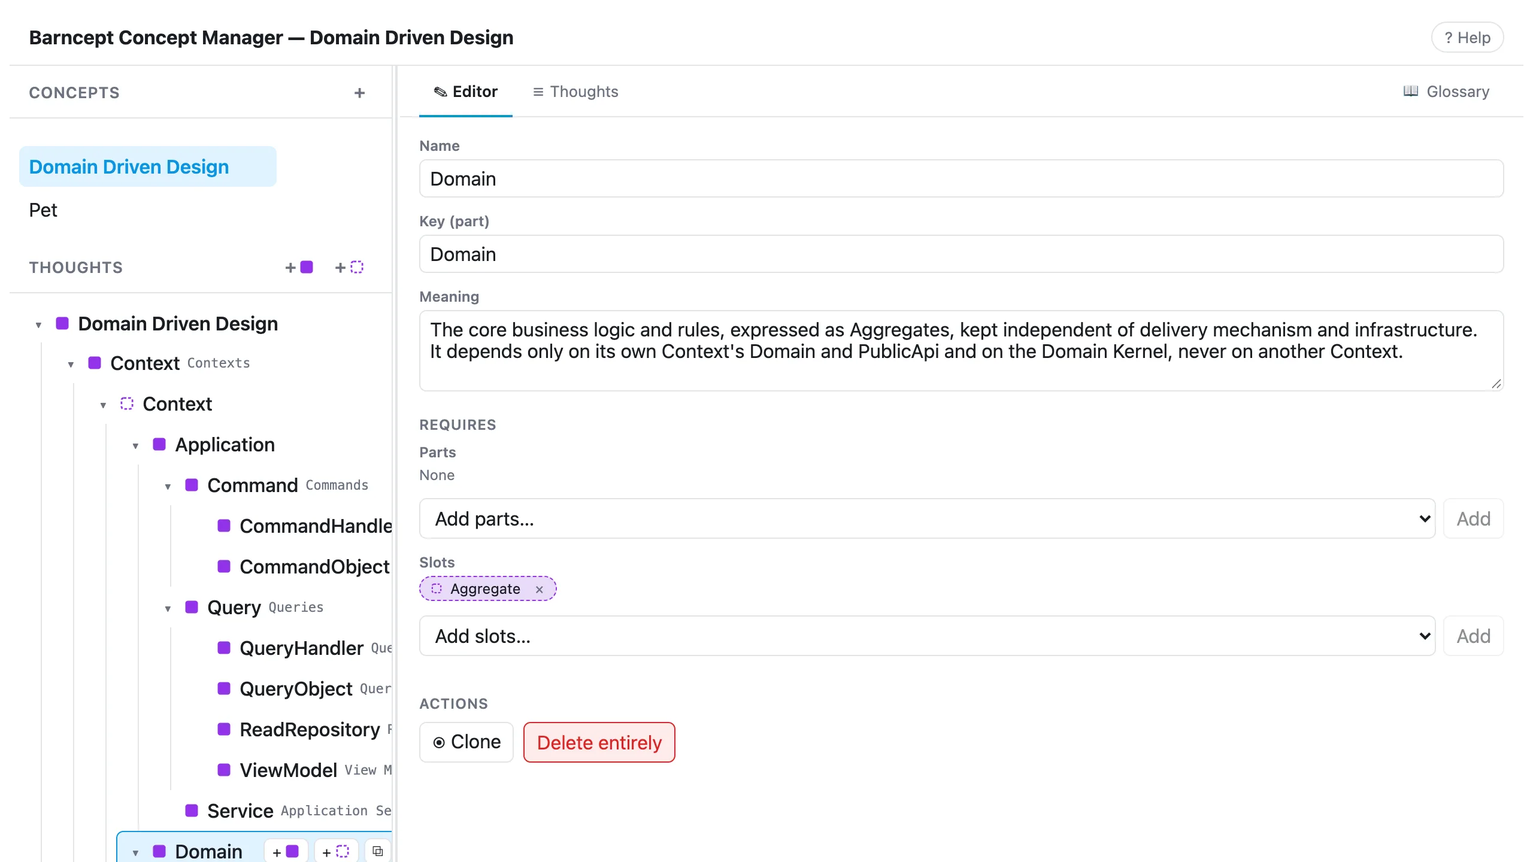
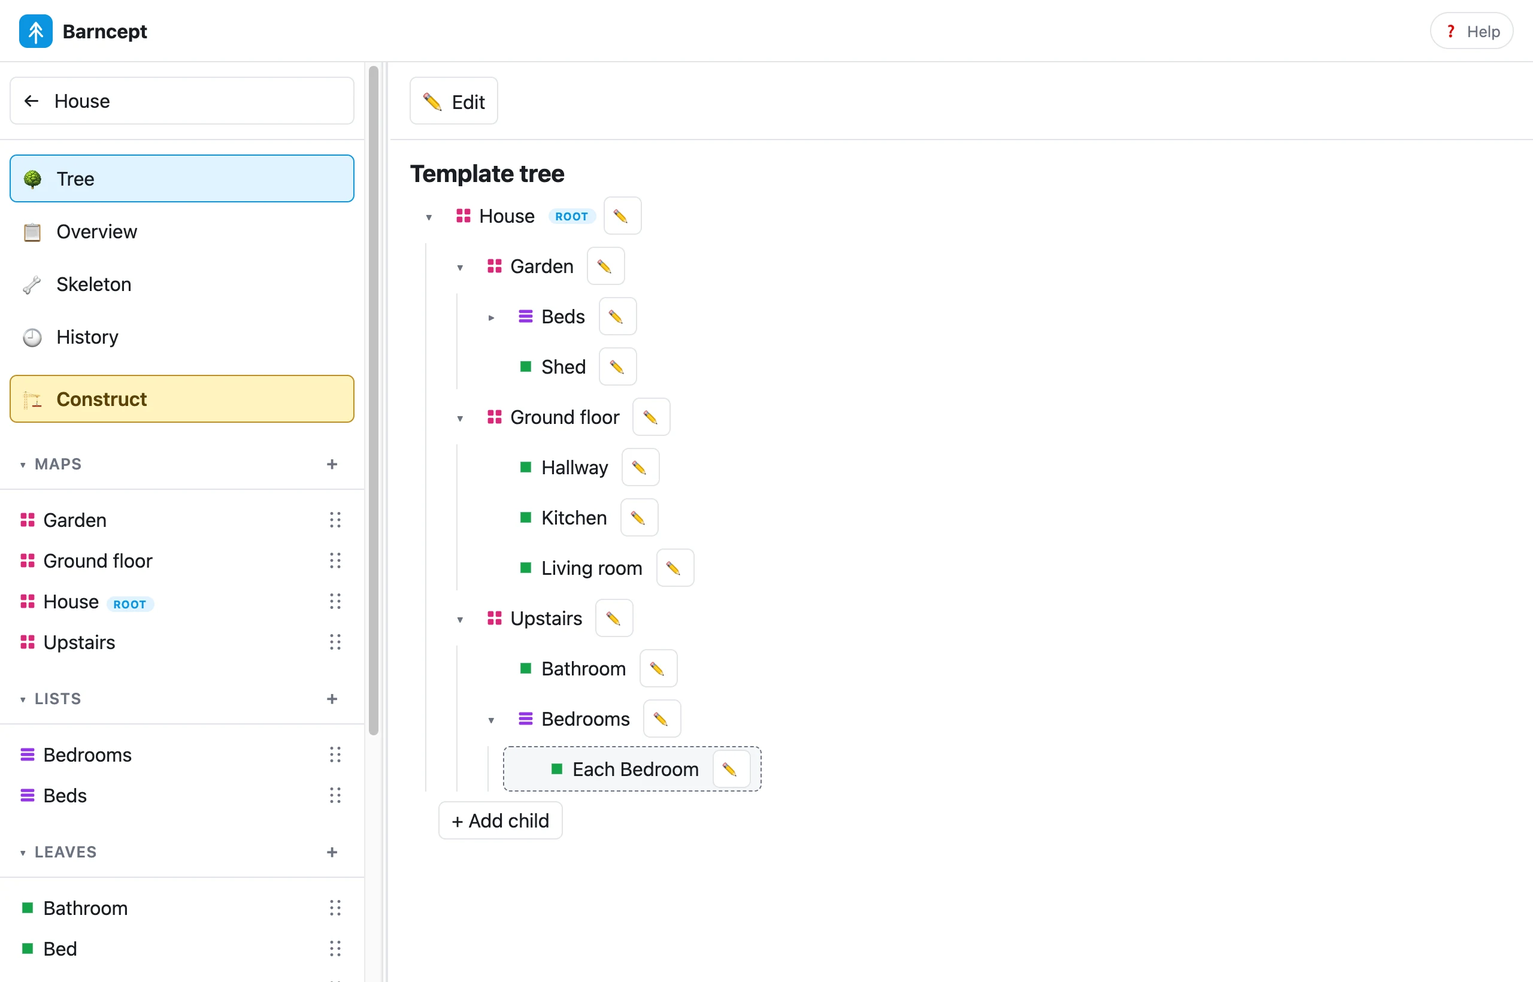
Refresh Barncept website for Templates, Constructions and History

diff --git a/barncept.html b/barncept.html
@@ -4,7 +4,7 @@
   <meta charset="utf-8">
   <meta name="viewport" content="width=device-width, initial-scale=1">
   <title>Barncept · Barn</title>
-  <meta name="description" content="Barncept keeps a tree of items in line with the types of thing it may hold, each type a leaf, a list or a map with a plain meaning, and refuses any change that would break them. How you understand something outlives how it is built.">
+  <meta name="description" content="Design reusable Templates with leaves, lists and maps. Create independent Constructions from saved revisions, add real members, and follow every saved change in History.">
   <link rel="icon" href="assets/barncept.svg" type="image/svg+xml">
   <link rel="stylesheet" href="assets/site.css">
 </head>
@@ -30,7 +30,7 @@
       <div class="wrap">
         <span class="eyebrow"><svg class="mark" viewBox="0 0 24 24" fill="currentColor" aria-hidden="true"><path transform="translate(-4 -4)" d="M16 8V27.5M11 14.5L16 8L21 14.5M10 21L16 14.5L22 21" fill="none" stroke="currentColor" stroke-width="2" stroke-linecap="round" stroke-linejoin="round"/></svg>Barncept · Reasoning</span>
         <h1>Your understanding <span class="accent">outlives your code</span>.</h1>
-        <p class="lede">Code is rewritten, frameworks come and go, folders get reshuffled. What lasts is how you understand the domain. With Barncept you <strong>name the types of thing in one subject, and Barncept builds the tree of items that follows them</strong>. Every type has a plain meaning, every change is checked so the tree never breaks its types, and the whole can be realised in any way you like.</p>
+        <p class="lede">Code is rewritten, frameworks come and go, folders get reshuffled. What lasts is how you understand the domain. With Barncept you <strong>design a reusable Template, then create Constructions that follow it</strong>. Describe what each building block means, arrange leaves, lists and maps, and add real members to each Construction. Every saved change has a history, and each Construction keeps the exact Template revision it started from.</p>
         <div class="actions">
           <a class="btn" href="#get-started">Get started</a>
           <a class="btn ghost" href="#deeper">Go deeper</a>
@@ -38,8 +38,8 @@
       </div>
       <div class="wrap wide hero-shot">
         <figure class="shot">
-          <div class="shot-bar" aria-hidden="true"><i></i><i></i><i></i><span>Barncept · Concept Manager</span></div>
-          <img src="assets/screens/cept-items.webp" width="1280" height="720" alt="The Barncept Concept Manager editing the House concept: its tree of items on the left, and the Bedrooms list selected, with its two members, Front bedroom and Back bedroom, each with buttons to move or remove it.">
+          <div class="shot-bar" aria-hidden="true"><i></i><i></i><i></i><span>Barncept · Templates and Constructions</span></div>
+          <img src="assets/screens/cept-editor.webp" width="1280" height="820" alt="The current Barncept Template workspace showing the expanded House tree, its reusable maps, lists and leaves in one sidebar, and the Construct action.">
         </figure>
       </div>
     </section>
@@ -50,8 +50,8 @@
           <div>
             <span class="kicker">Meaning first</span>
             <h2>Types that explain themselves.</h2>
-            <p>A concept names the <strong>types</strong> of thing in one subject, and every type has a name and <strong>a meaning written in plain words</strong>. A type is a <strong>leaf</strong>, which holds nothing, a <strong>list</strong> of one type, or a <strong>map</strong> of several. A house is a map of a ground floor, an upstairs and a garden; its bedrooms are a list, and each bedroom is a leaf.</p>
-            <p>Months later, anyone can open the tree and understand not just what exists, but what each thing is for. Each concept’s <strong>Glossary</strong> puts every type and its meaning on one page, so a newcomer, or an AI agent, can learn the vocabulary in one read.</p>
+            <p>A Template names the <strong>types</strong> of thing in one subject. Each building block has an identifier, a name and <strong>a meaning written in plain words</strong>. A type is a <strong>leaf</strong>, which holds nothing, a <strong>list</strong> of one type, or a <strong>map</strong> of several. A house is a map of a ground floor, an upstairs and a garden; its bedrooms are a list, and each bedroom is a leaf.</p>
+            <p>Months later, anyone can open the tree and understand not just what exists, but what each thing is for. Each Template’s <strong>Glossary</strong> puts every type and its meaning on one page, so a newcomer, or an AI agent, can learn the vocabulary in one read.</p>
           </div>
           <figure class="panel" style="margin: 0">
             <svg viewBox="0 0 490 300" role="img" aria-labelledby="graph-title" style="display: block; width: 100%; height: auto">
@@ -95,7 +95,7 @@
           <div>
             <span class="kicker">Always valid</span>
             <h2>A change that would break it is refused.</h2>
-            <p>Barncept builds the tree from the types: a map’s items are made for you, one for each type it holds, and you add the <strong>members</strong> of a list, each with a name you give it. Keeping the tree in line with its types is Barncept’s core job. It is <strong>never left half-broken</strong>: a type nobody has described, a map that holds itself forever, two members of one list with the same name, or a member added where there is no list is refused, with a message that says why. That makes it safer to drive than the file underneath, whether a person, a program or an AI agent is doing the driving.</p>
+            <p>Create a Construction from a saved Template. Its required map children are made for you, and its lists start empty. Use <strong>+ Add</strong> to give a list real <strong>members</strong>, each with its own name. Keeping the tree in line with its types is Barncept’s core job. It is <strong>never left half-broken</strong>: a type nobody has described, a map that holds itself forever, two members of one list with the same name, or a member added where there is no list is refused, with a message that says why. That makes it safer to drive than the file underneath, whether a person, a program or an AI agent is doing the driving.</p>
             <p>A file that was broken outside Barncept fails loudly when it is read, and says what is wrong and where.</p>
           </div>
           <div class="panel" aria-label="Changes Barncept checks before it makes them">
@@ -126,20 +126,60 @@
         <div class="feature stacked">
           <div>
             <div class="copy-head">
-              <span class="kicker">Change your mind</span>
-              <h2>Change the types. See what goes first.</h2>
+              <span class="kicker">Reusable rules</span>
+              <h2>Design once. Construct separately.</h2>
             </div>
             <div>
-            <p>Understanding grows, and the types change with it. Change what a map or a list holds, or turn a list into a leaf, and Barncept <strong>fits the tree to the new types</strong>: an item still of the type expected where it sits stays, with its name, a map entry the new types call for is made, and anything whose type has gone is removed with everything in it.</p>
-            <p>Barncept decides nothing for you. <strong>Before anything is removed, the editor lists it and asks</strong>, and nothing is saved until you save the concept.</p>
+              <p>A Template’s tree shows its fixed children and the structure each list repeats. The sidebar groups its reusable <strong>Maps, Lists and Leaves</strong>. Select a building block to see its meaning and uses, then choose <strong>Edit</strong>. Drag a building block’s grip onto a compatible target, or use the keyboard controls to add or replace a connection.</p>
+              <p><strong>Save and Cancel belong to the object being edited.</strong> Save records the whole session as one revision; Cancel restores the saved version. Shared changes and losses ask for confirmation, and leaving an unfinished edit offers Save, Discard or Stay.</p>
             </div>
           </div>
           <figure>
             <div class="shot">
-              <div class="shot-bar" aria-hidden="true"><i></i><i></i><i></i><span>Barncept · Concept Manager</span></div>
-              <img src="assets/screens/cept-change-types.webp" width="1400" height="900" alt="The Barncept Concept Manager after the House concept’s Garden type was changed to a leaf. A dialog, The tree would lose items, lists House / Garden / Shed and House / Garden / Beds, which would be removed with everything in them, and offers Remove them and apply, or Cancel.">
+              <div class="shot-bar" aria-hidden="true"><i></i><i></i><i></i><span>Barncept · Editing a building block</span></div>
+              <img src="assets/screens/cept-template-edit.webp" width="1280" height="820" loading="lazy" alt="Barncept editing the Kitchen leaf in the House Template, with its name, meaning, kind and tags, and Save and Cancel beside the editing heading.">
             </div>
-            <figcaption>A type change that would remove items asks first.</figcaption>
+            <figcaption>One building block, one editing session, one saved revision.</figcaption>
+          </figure>
+        </div>
+
+        <div class="feature stacked">
+          <div>
+            <div class="copy-head">
+              <span class="kicker">Real members</span>
+              <h2>One Template. Independent Constructions.</h2>
+            </div>
+            <div>
+              <p>Choose <strong>Construct</strong>, give it a name, and Barncept opens the new Construction’s tree. Add, rename or remove list members within an explicit Save/Cancel session. Required map children and the captured building-block rules stay protected.</p>
+              <p>Willow Cottage can have a Front bedroom and a Back bedroom while another house has different rooms. Each Construction <strong>keeps its exact saved source revision</strong>: later Template changes leave it intact. Overview links back to that source, even if the live Template is later renamed or deleted.</p>
+            </div>
+          </div>
+          <figure>
+            <div class="shot">
+              <div class="shot-bar" aria-hidden="true"><i></i><i></i><i></i><span>Barncept · A Construction</span></div>
+              <img src="assets/screens/cept-items.webp" width="1280" height="820" loading="lazy" alt="The Willow Cottage Construction in Barncept, showing required House structure, Front bedroom and Back bedroom as real list members, and Add controls on eligible lists.">
+            </div>
+            <figcaption>A Construction holds real members; its Template supplies the rules.</figcaption>
+          </figure>
+        </div>
+
+        <div class="feature stacked">
+          <div>
+            <div class="copy-head">
+              <span class="kicker">A record of change</span>
+              <h2>History belongs to each object.</h2>
+            </div>
+            <div>
+              <p>Templates and Constructions each have their own <strong>History</strong>, newest revision first. See when a change was recorded and what changed, expand a combined save, or open a revision’s read-only snapshot.</p>
+              <p>Construction creation records its first revision immediately. Later saves add revisions only when something changed. Historical snapshots and captured sources remain read-only; restoring or upgrading them is outside the current editor.</p>
+            </div>
+          </div>
+          <figure>
+            <div class="shot">
+              <div class="shot-bar" aria-hidden="true"><i></i><i></i><i></i><span>Barncept · Construction history</span></div>
+              <img src="assets/screens/cept-history.webp" width="1280" height="820" loading="lazy" alt="Willow Cottage’s History in Barncept, listing its creation and the saved additions of Front bedroom and Back bedroom, with revision numbers that open immutable snapshots.">
+            </div>
+            <figcaption>Follow saved changes without altering the current tree.</figcaption>
           </figure>
         </div>
 
@@ -148,10 +188,10 @@
             <span class="kicker">Realise it any way</span>
             <h2>One model. Any shape.</h2>
             <p>Barncept never decides what a tree becomes. A folder structure, a diagram and a set of documents are each <strong>one possible realisation</strong>, never the model itself. Turn the same tree into real folders, an architecture to check code against, or whatever you need next.</p>
-            <p>Four come built in, each for whoever reads it. View and download any of them in the browser, or export them from the command line.</p>
-            <p>Every <a href="barnark.html">Barnark</a> architecture template is written as a Barncept concept, and can be opened and edited in exactly the same way.</p>
+            <p>Four Template projections come built in. Open <strong>View and export</strong> under a Template’s Overview to preview or download its saved item tree, or export it from the command line. Construction exports are not available yet.</p>
+            <p><a href="barnark.html">Barnark</a> architecture templates use Barncept concepts too. Barnark manages its own templates and folder rules; the new Construction workflow is not integrated with Barnark yet.</p>
           </div>
-          <div class="panel" aria-label="The four built-in realisations of a concept">
+          <div class="panel" aria-label="The four built-in Template projections">
             <ul class="examples" style="margin-top: 0">
               <li><strong>Document</strong><span class="state">for people: a heading per item, its meaning beneath</span></li>
               <li><strong>Folders</strong><span class="state">for developers and tools, a README in each</span></li>
@@ -179,7 +219,7 @@
                 <li><strong>List</strong>: a type of exactly one type, such as <code>Bedrooms</code>, a list of <code>Bedroom</code>. Its items are its members, any number of them, each with a name you give it.</li>
                 <li><strong>Map</strong>: a type of a set of types, each at most once, such as <code>House</code>, a map of <code>Ground floor</code>, <code>Upstairs</code> and <code>Garden</code>.</li>
               </ul>
-              <p>A concept names its <strong>root</strong> type, and types refer to each other only by name, so one type can be used in many places. Every item follows one type and has an id that Barncept generates. A concept written as types only is given its <strong>skeleton</strong> when it is read: the root, and every map entry below it, down to empty lists and leaves. Add two bedrooms and the House reads:</p>
+              <p>A Template names its <strong>root</strong> type, and types refer to each other only by name, so one type can be used in many places. Every item follows one type and has an id that Barncept generates. <strong>Skeleton</strong> is a read-only preview of the starting tree: the root and every required map child, down to empty lists and leaves. A new Construction starts there. Add two bedrooms to a House Construction and its tree reads:</p>
 <pre><code>House
 |
 +--Ground floor
@@ -199,6 +239,22 @@
    +--Shed
    +--Beds</code></pre>
               <p>The editor marks a map, a list and a leaf each with its own icon, and its Help page explains every word it uses.</p>
+            </div>
+          </details>
+          <details>
+            <summary><span>Templates, Constructions and History from the command line<small>The same saved data as the browser</small></span></summary>
+            <div class="body">
+              <p>Read Templates and their building blocks, create Constructions, manage real list members and inspect revision history without a running GUI. Template and building-block editing remains in the browser.</p>
+<pre><code><span class="p">$ </span>vendor/bin/barncept template:list
+<span class="p">$ </span>vendor/bin/barncept template:show House --view=skeleton
+<span class="p">$ </span>vendor/bin/barncept type:show House Bedroom
+<span class="p">$ </span>vendor/bin/barncept construction:create House --name="Willow Cottage"
+<span class="p">$ </span>vendor/bin/barncept construction:list
+<span class="p">$ </span>vendor/bin/barncept construction:show CONSTRUCTION_ID
+<span class="p">$ </span>vendor/bin/barncept member:add CONSTRUCTION_ID --list=LIST_ITEM_ID --name="Front bedroom"
+<span class="p">$ </span>vendor/bin/barncept construction:history CONSTRUCTION_ID
+<span class="p">$ </span>vendor/bin/barncept construction:show CONSTRUCTION_ID --view=source</code></pre>
+              <p>Replace the uppercase placeholders with the IDs printed by the list and show commands. Read commands support <code>--json</code>; member changes appear in the GUI and share its history. Member removal asks for confirmation.</p>
             </div>
           </details>
           <details>
@@ -274,8 +330,8 @@ new ProjectionWriterFactory()->create()->write($document, __DIR__ . '/house.md')
     <section class="section" id="get-started">
       <div class="wrap cta">
         <span class="kicker">Get started</span>
-        <h2>Open your concepts in the browser.</h2>
-        <p>Barncept needs PHP 8.5, Composer and the <code>ds</code> extension. If the project has no barn, run <code>init</code> once to create <code>.barn/</code>, then open the editor. Barncept keeps its concepts in <code>.barn/barncept/concepts/</code>.</p>
+        <h2>Design a Template. Make it real.</h2>
+        <p>Barncept needs PHP 8.5, Composer and the <code>ds</code> extension. If the project has no barn, run <code>init</code> once to create <code>.barn/</code>, then open the editor. Existing Template files stay in <code>.barn/barncept/concepts/</code> and appear in the catalogue without importing them. Constructions and revision history are managed alongside them by Barncept.</p>
 <pre style="max-width: 560px; margin: 0 auto 8px; text-align: left"><code><span class="p">$ </span>vendor/bin/barncept init
 <span class="p">$ </span>vendor/bin/barncept gui</code></pre>
         <div class="deeper" style="max-width: 760px; margin: 28px auto 0; text-align: left">

diff --git a/barnark.html b/barnark.html
@@ -283,7 +283,7 @@
       <div class="wrap">
         <div class="grid two">
           <a class="card product" data-brand="spec" href="barnspec.html"><span class="role">Understand the need</span><h3><svg class="mark" viewBox="0 0 24 24" fill="currentColor" aria-hidden="true"><g transform="translate(-4 -4)"><g transform="translate(16 16) scale(1.45) translate(-16 -16.5)" fill="none" stroke="currentColor" stroke-width="1.4" stroke-linecap="round" stroke-linejoin="round"><circle cx="12.2" cy="16.6" r="2.9"/><circle cx="19.8" cy="16.6" r="2.9"/><path d="M15 16c.6-.7 1.4-.7 2 0"/><path d="M10.15 14.55C9.65 13.95 9.2 13.55 8.7 13.55M21.85 14.55C22.35 13.95 22.8 13.55 23.3 13.55"/></g></g></svg>Barnspec</h3><p>Know what the code is for, and prove that it does it.</p><span class="more">Explore Barnspec</span></a>
-          <a class="card product" data-brand="cept" href="barncept.html"><span class="role">Organise the concepts</span><h3><svg class="mark" viewBox="0 0 24 24" fill="currentColor" aria-hidden="true"><path transform="translate(-4 -4)" d="M16 8V27.5M11 14.5L16 8L21 14.5M10 21L16 14.5L22 21" fill="none" stroke="currentColor" stroke-width="2" stroke-linecap="round" stroke-linejoin="round"/></svg>Barncept</h3><p>Barnark’s templates are written as Barncept concepts.</p><span class="more">Explore Barncept</span></a>
+          <a class="card product" data-brand="cept" href="barncept.html"><span class="role">Organise the concepts</span><h3><svg class="mark" viewBox="0 0 24 24" fill="currentColor" aria-hidden="true"><path transform="translate(-4 -4)" d="M16 8V27.5M11 14.5L16 8L21 14.5M10 21L16 14.5L22 21" fill="none" stroke="currentColor" stroke-width="2" stroke-linecap="round" stroke-linejoin="round"/></svg>Barncept</h3><p>Design reusable Templates and independent Constructions with revision history. Barnark’s architecture templates also use Barncept concepts.</p><span class="more">Explore Barncept</span></a>
         </div>
       </div>
     </section>

diff --git a/barnspec.html b/barnspec.html
@@ -307,7 +307,7 @@
       <div class="wrap">
         <div class="grid two">
           <a class="card product" data-brand="ark" href="barnark.html"><span class="role">Shape the software</span><h3><svg class="mark" viewBox="0 0 24 24" fill="currentColor" aria-hidden="true"><path d="M2 14.5h20l-3.2 5.5H5.2zM6.5 13V9.5L12 5.5l5.5 4V13z"/></svg>Barnark</h3><p>Keep the code that fulfils your stories in the shape you chose.</p><span class="more">Explore Barnark</span></a>
-          <a class="card product" data-brand="cept" href="barncept.html"><span class="role">A separate package</span><h3><svg class="mark" viewBox="0 0 24 24" fill="currentColor" aria-hidden="true"><path transform="translate(-4 -4)" d="M16 8V27.5M11 14.5L16 8L21 14.5M10 21L16 14.5L22 21" fill="none" stroke="currentColor" stroke-width="2" stroke-linecap="round" stroke-linejoin="round"/></svg>Barncept</h3><p>Generic concept management used by Barnspec and Barnark, with each tool keeping its own rules and API.</p><span class="more">Explore Barncept</span></a>
+          <a class="card product" data-brand="cept" href="barncept.html"><span class="role">A separate package</span><h3><svg class="mark" viewBox="0 0 24 24" fill="currentColor" aria-hidden="true"><path transform="translate(-4 -4)" d="M16 8V27.5M11 14.5L16 8L21 14.5M10 21L16 14.5L22 21" fill="none" stroke="currentColor" stroke-width="2" stroke-linecap="round" stroke-linejoin="round"/></svg>Barncept</h3><p>Reusable Templates, independent Constructions and revision history, plus shared storage used by Barnspec and Barnark. Each tool keeps its own rules and API.</p><span class="more">Explore Barncept</span></a>
         </div>
       </div>
     </section>

diff --git a/index.html b/index.html
@@ -293,7 +293,7 @@
           <a class="card product" data-brand="cept" href="barncept.html">
             <span class="role">A separate package · organise the concepts</span>
             <h3><svg class="mark" viewBox="0 0 24 24" fill="currentColor" aria-hidden="true"><path transform="translate(-4 -4)" d="M16 8V27.5M11 14.5L16 8L21 14.5M10 21L16 14.5L22 21" fill="none" stroke="currentColor" stroke-width="2" stroke-linecap="round" stroke-linejoin="round"/></svg>Barncept</h3>
-            <p>Reusable concept structures for Barnark and document storage for Barnspec.</p>
+            <p>Design reusable Templates, create independent Constructions, and follow every saved revision. The shared engine also supports Barnark and Barnspec.</p>
             <span class="more">Explore Barncept</span>
           </a>
         </div>

diff --git a/barn.html b/barn.html
@@ -107,7 +107,7 @@ barn remove barncept</code></pre>
     barnspec/                <span class="c"># Barnspec: areas of business, scenarios and work</span>
       settings.json          <span class="c"># where generated test ports go</span>
     barnark/                 <span class="c"># your project’s template and any others of your own</span>
-    barncept/concepts/       <span class="c"># your own concepts, once you use Barncept</span>
+    barncept/concepts/       <span class="c"># your Templates, once you use Barncept</span>
   composer.json
   src/
   tests/</code></pre>

diff --git a/README.md b/README.md
@@ -9,6 +9,23 @@ It leads with the philosophy and the GUIs. Details, terminology, the command
 line and installation sit in each page's collapsible "Go deeper" sections.
 The screenshots in `assets/screens/` are real, taken in Chrome at twice the size.
 
+Retaken on 2026-11-08, on Barncept core 8.1.0, CLI 6.2.0 and GUI 6.3.0
+with the approved evergreen branding:
+
+- `cept-editor`: House’s expanded Template tree and its workspace sidebar.
+- `cept-template-edit`: the Kitchen leaf’s explicit editing session, with Save and Cancel.
+- `cept-items`: Willow Cottage, an independent House Construction with Front bedroom
+  and Back bedroom list members.
+- `cept-history`: the Construction’s creation and two member-addition revisions.
+- `cept-vocab`: the current House Glossary, retaining its existing public filename.
+
+These are real Chrome captures at 1280 × 820 CSS pixels and 2× resolution, using
+a disposable barn and the shipped House example. The temporary barn path is hidden
+in the screenshots. Construction creation and member additions use the released CLI;
+the GUI reads the same saved records. No real project data was changed.
+The Barncept page and related product summaries now describe Templates,
+Constructions, exact captured sources and immutable revision history.
+
 Taken on 2026-11-05, on the Barnark 8.2 line:
 
 - `ark-tags`: the Barnark GUI on its own, in a project made with
@@ -28,7 +45,7 @@ made-up hotel whose stories were written through Barnspec's API for the shots:
 - `ark-new`: the Barnark GUI on its own, in a project with nothing bound yet,
   with Clone into the project filled in.
 
-Retaken on 2026-10-25:
+Earlier captures on 2026-10-25 (superseded above):
 
 - `cept-vocab` (the name is kept because READMEs embed it) and `cept-editor`:
   the Barncept GUI over a folder holding Barncept's own example concepts
